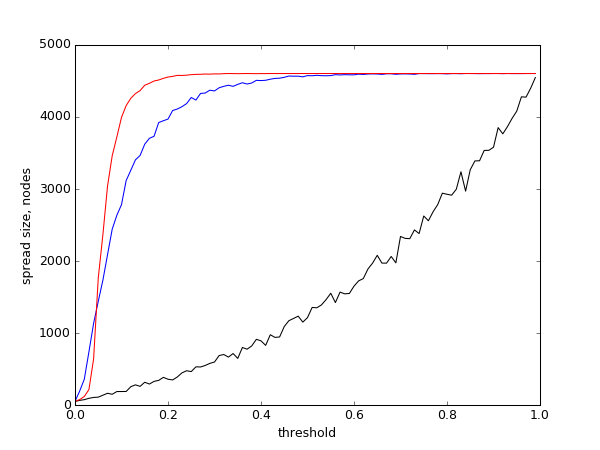
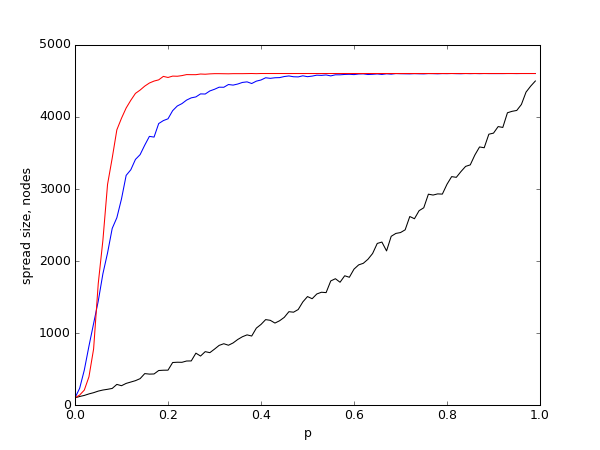
Optimized sis model

diff --git a/threshold_model.py b/threshold_model.py
@@ -1,8 +1,7 @@
 import networkx as nx
 import matplotlib.pyplot as plt
-from Queue import PriorityQueue
 import time
-import seed
+import epidemic
 
 """threshold model"""
 
@@ -24,7 +23,7 @@ def timeit(method):
     return timed
 
 
-class ThresholdModel(seed.OperaEpidemics):
+class ThresholdModel(epidemic.OperaEpidemics):
 
     RESULT_DIR = '/data/threshold_model/'
 
@@ -40,27 +39,32 @@ class ThresholdModel(seed.OperaEpidemics):
         self.threshold = threshold
 
         self.marked = dict()
-        self.pq = PriorityQueue()
-
-        for m in xrange(len(seed_nodes)):
-            self.marked[seed_nodes[m]] = True
         for i in xrange(len(seed_nodes)):
-            self.enqueue_neighbors(seed_nodes[i])
+            self.marked[seed_nodes[i]] = True
 
-    def enqueue_neighbors(self, node):
-        neighbors = self.G.neighbors(node)
-        for j in xrange(len(neighbors)):
-            if neighbors[j] not in self.marked:
-                self.pq.put(neighbors[j])
+        self.step = 1
 
+    @timeit
     def spread(self):
-        while not self.pq.empty():
-            node = self.pq.get()
-            if node not in self.marked:
-                vote = self.vote(node)
-                if vote:
-                    self.marked[node] = True
-                    self.enqueue_neighbors(node)
+        while True:
+            current_step = self.marked.keys()
+            count = 0
+            while len(current_step):
+                node = current_step.pop()
+                neighbors = list(set(self.G.neighbors(node)))
+                for i in xrange(len(neighbors)):
+                    s = neighbors[i]
+                    if s in self.marked:
+                        continue
+                    if self.vote(s):
+                        self.marked[s] = True
+                        count += 1
+            if not count:
+                break
+
+            self.step += 1
+            print(len(self.marked))
+
         return len(self.marked)
 
     def get_marked(self):

diff --git a/sir_model.py b/sir_model.py
@@ -1,10 +1,8 @@
 import networkx as nx
 import matplotlib.pyplot as plt
-import os
-from Queue import PriorityQueue
 import time
 import random
-import seed
+import epidemic
 
 """SIR model"""
 
@@ -26,7 +24,7 @@ def timeit(method):
     return timed
 
 
-class SIRModel(seed.OperaEpidemics):
+class SIRModel(epidemic.OperaEpidemics):
 
     RESULT_DIR = '/data/sir_model/'
     REMOVED = False
@@ -77,7 +75,6 @@ class SIRModel(seed.OperaEpidemics):
         r = random.uniform(0, 1)
         return r <= self.p
 
-    @timeit
     def draw(self, filename, seed=None):
         plt.rcParams['text.usetex'] = False
         plt.figure(figsize=(20, 20))
@@ -88,15 +85,13 @@ class SIRModel(seed.OperaEpidemics):
         except:
             pos = nx.spring_layout(self.G, iterations=20)
 
-        print(self.touched.keys())
-
         if not seed:
             seed = []
-        nx.draw_networkx_nodes(self.G, pos, list(set(self.G.nodes()) - set(self.touched.keys()) - set(seed)), alpha=0.2, node_size=20, node_color='grey')
-        nx.draw_networkx_nodes(self.G, pos, list(set(self.touched.keys()) - set(seed)), alpha=0.5, node_size=20, node_color='red', linewidths=0.)
+        nx.draw_networkx_nodes(self.G, pos, list(set(self.G.nodes()) - set(self.infected.keys()) - set(seed)), alpha=0.2, node_size=20, node_color='grey')
+        nx.draw_networkx_nodes(self.G, pos, list(set(self.infected.keys()) - set(seed)), alpha=0.5, node_size=20, node_color='red', linewidths=0.)
         nx.draw_networkx_nodes(self.G, pos, seed, alpha=0.5, node_size=20, node_color='blue', linewidths=0.)
 
-        nx.draw_networkx_nodes(self.G, pos, [x for x in self.touched.keys() if x == SIRModel.REMOVED], alpha=0.5, node_size=20, node_color='black', linewidths=0.)
+        nx.draw_networkx_nodes(self.G, pos, [x for x in self.infected.keys() if x == SIRModel.REMOVED], alpha=0.5, node_size=20, node_color='black', linewidths=0.)
 
         nx.draw_networkx_edges(self.G, pos, alpha=0.2, node_size=0, width=0.1, edge_color='grey')
 

diff --git a/sis_model_for_opera.py b/sis_model_for_opera.py
@@ -10,7 +10,7 @@ probabilities = [float(i)/100. for i in range(100)]
 t = 5
 
 graph = sm.SISModel.get_opera_graph()
-seed = sm.SISModel.get_random_seed(graph, 200)
+seed = sm.SISModel.get_random_seed(graph, 100)
 print(seed)
 o_sizes = []
 for i in xrange(len(probabilities)):
@@ -19,18 +19,18 @@ for i in xrange(len(probabilities)):
 print(o_sizes)
 
 graph = nx.barabasi_albert_graph(4604, 10)
-seed = sm.SISModel.get_random_seed(graph, 200)
+seed = sm.SISModel.get_random_seed(graph, 100)
 ba_sizes = []
 for i in xrange(len(probabilities)):
     ba_sizes.append(sm.SISModel(graph, seed, probabilities[i], t).spread())
 print(ba_sizes)
 
 graph = nx.erdos_renyi_graph(4604, 0.005)
-seed = sm.SISModel.get_random_seed(graph, 200)
+seed = sm.SISModel.get_random_seed(graph, 100)
 er_sizes = []
 for i in xrange(len(probabilities)):
     er_sizes.append(sm.SISModel(graph, seed, probabilities[i], t).spread())
 print(er_sizes)
 
 sm.SISModel.plot_spread_size_distribution(probabilities, [o_sizes, ba_sizes, er_sizes], ['blue', 'black', 'red'],
-                                       sm.SISModel.get_data_dir() + sm.SISModel.RESULT_DIR + 'spread_size_distribution.png')
+                                       sm.SISModel.get_data_dir() + sm.SISModel.RESULT_DIR + 'spread_size_distribution.png', 'p')

diff --git a/sir_model_for_opera.py b/sir_model_for_opera.py
@@ -10,25 +10,25 @@ probabilities = [float(i)/100. for i in range(100)]
 t = 1
 
 graph = sm.SIRModel.get_opera_graph()
-seed = sm.SIRModel.get_hubs(graph, 50)
+seed = sm.SIRModel.get_hubs(graph, 100)
 o_sizes = []
 for i in xrange(len(probabilities)):
     o_sizes.append(sm.SIRModel(graph, seed, probabilities[i], t).spread())
 print(o_sizes)
 
 graph = nx.barabasi_albert_graph(4604, 1)
-seed = sm.SIRModel.get_hubs(graph, 50)
+seed = sm.SIRModel.get_hubs(graph, 100)
 ba_sizes = []
 for i in xrange(len(probabilities)):
     ba_sizes.append(sm.SIRModel(graph, seed, probabilities[i], t).spread())
 print(ba_sizes)
 
 graph = nx.erdos_renyi_graph(4604, 0.005)
-seed = sm.SIRModel.get_hubs(graph, 50)
+seed = sm.SIRModel.get_hubs(graph, 100)
 er_sizes = []
 for i in xrange(len(probabilities)):
     er_sizes.append(sm.SIRModel(graph, seed, probabilities[i], t).spread())
 print(er_sizes)
 
 sm.SIRModel.plot_spread_size_distribution(probabilities, [o_sizes, ba_sizes, er_sizes], ['blue', 'black', 'red'],
-                                          sm.SIRModel.get_data_dir() + sm.SIRModel.RESULT_DIR + 'spread_size_distribution.png')
+                                          sm.SIRModel.get_data_dir() + sm.SIRModel.RESULT_DIR + 'spread_size_distribution.png', 'p')

diff --git a/epidemic.py b/epidemic.py
@@ -87,10 +87,10 @@ class OperaEpidemics(object):
         return giant
 
     @staticmethod
-    def plot_spread_size_distribution(thresholds, distributions, colors, filename):
+    def plot_spread_size_distribution(thresholds, distributions, colors, filename, xaxis_name='threshold'):
         for i in xrange(len(distributions)):
             plt.plot(thresholds, distributions[i], linestyle="solid", color=colors[i])
         plt.rcParams['text.usetex'] = False
-        plt.xlabel("threshold")
-        plt.ylabel("spread size, nodes")
+        plt.xlabel(xaxis_name)
+        plt.ylabel('spread size, nodes')
         plt.savefig(filename, dpi=75, transparent=False)

diff --git a/sir_model_tests.py b/sir_model_tests.py
@@ -18,8 +18,7 @@ class TestSIRModel(unittest.TestCase):
 
         model = sm.SIRModel(graph, initial_adopters, p, t)
         spread = model.spread()
-        infected = model.get_infected()
-        #self.assertEqual(len(infected), 0)
+        model.get_infected()
         self.assertEqual(spread, 3)
 
     def test_partially_touched(self):
@@ -34,8 +33,7 @@ class TestSIRModel(unittest.TestCase):
 
         model = sm.SIRModel(graph, initial_adopters, p, t)
         spread = model.spread()
-        infected = model.get_infected()
-        #self.assertEqual(len(infected), 0)
+        model.get_infected()
         self.assertEqual(spread, 1)
 
 

diff --git a/threshold_model_for_opera.py b/threshold_model_for_opera.py
@@ -9,14 +9,14 @@ __version__ = "0.1"
 thresholds = [float(i) / 100. for i in range(100)]
 
 graph = tm.ThresholdModel.get_opera_graph()
-seed = tm.ThresholdModel.get_hubs(graph, 10)
+seed = tm.ThresholdModel.get_hubs(graph, 100)
 o_sizes = []
 for i in xrange(len(thresholds)):
     o_sizes.append(tm.ThresholdModel(graph, seed, thresholds[i]).spread())
 print(o_sizes)
 
 graph = nx.barabasi_albert_graph(4604, 16)
-seed = tm.ThresholdModel.get_hubs(graph, 10)
+seed = tm.ThresholdModel.get_hubs(graph, 100)
 ba_sizes = []
 for i in xrange(len(thresholds)):
     ba_sizes.append(tm.ThresholdModel(graph, seed, thresholds[i]).spread())

diff --git a/sis_model.py b/sis_model.py
@@ -2,7 +2,7 @@ import networkx as nx
 import matplotlib.pyplot as plt
 import time
 import random
-import seed
+import epidemic
 
 """SIS model"""
 
@@ -24,7 +24,7 @@ def timeit(method):
     return timed
 
 
-class SISModel(seed.OperaEpidemics):
+class SISModel(epidemic.OperaEpidemics):
 
     RESULT_DIR = '/data/sis_model/'
 
